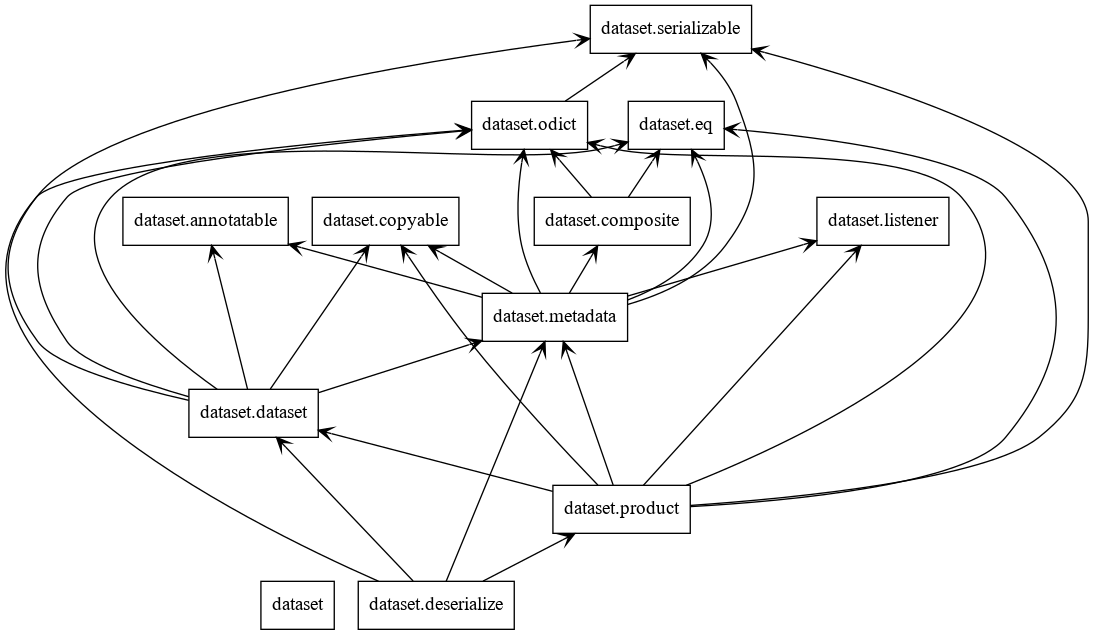
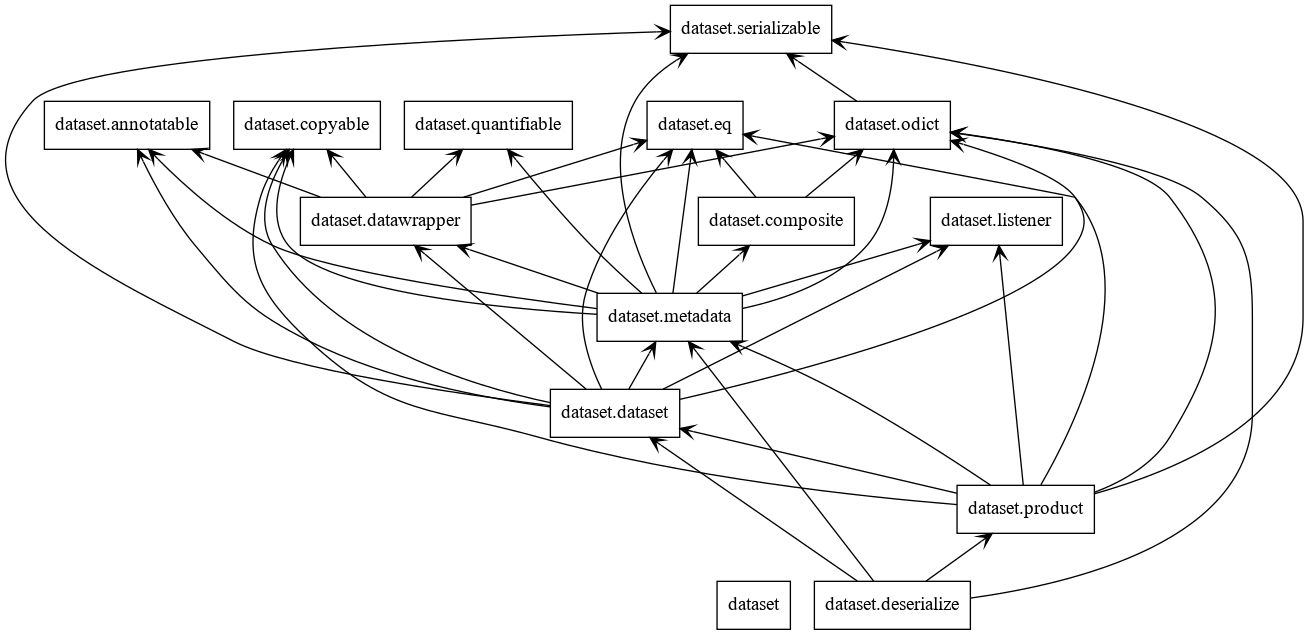
datawreapper refactoring

diff --git a/dataset/metadata.py b/dataset/metadata.py
@@ -6,10 +6,12 @@ logger = logging.getLogger(__name__)
 from dataset.annotatable import Annotatable
 from dataset.copyable import Copyable
 from dataset.eq import DeepEqual
+from dataset.quantifiable import Quantifiable
 from dataset.listener import EventSender, DatasetBaseListener, ParameterListener, DatasetListener, DatasetEvent, EventType
 from dataset.composite import Composite
 from dataset.odict import ODict
 from dataset.serializable import Serializable
+from dataset.datawrapper import DataWrapperMapper
 
 
 class Parameter(Annotatable, Copyable, DeepEqual, EventSender, Serializable):
@@ -91,30 +93,8 @@ class Parameter(Annotatable, Copyable, DeepEqual, EventSender, Serializable):
                      version=self.version)
 
 
-class Quantifiable():
-    """ A Quantifiable object is a numeric object that has a unit.
-    $ x.unit = ELECTRON_VOLTS
-    $ print x.unit
-    eV [1.60218E-19 J]"""
-
-    def __init__(self, unit=None, **kwds):
-        """
-
-        """
-        self.unit = unit
-        super().__init__(**kwds)
-
-    def getUnit(self):
-        """ Returns the unit related to this object."""
-        return self.unit
-
-    def setUnit(self, unit):
-        """ Sets the unit of this object. """
-        self.unit = unit
-
-
 class NumericParameter(Parameter, Quantifiable):
-    """
+    """ has a number as the value and a unit.
     """
 
     def __init__(self, **kwds):
@@ -248,53 +228,6 @@ class Attributable(MetaDataHolder):
         replaced
         """
         self._meta = newMetadata
-
-
-class DataWrapper(Annotatable, Quantifiable, Copyable, DeepEqual):
-    """ A DataWrapper is a composite of data, unit and description.
-    mh: note that all data are in the same unit. There is no metadata.
-    Implemented from AbstractDataWrapper.
-    """
-
-    def __init__(self, **kwds):
-        super().__init__(**kwds)
-        self._data = ODict()
-
-    @property
-    def data(self):
-        return self.getData()
-
-    @data.setter
-    def data(self, newData):
-        self.setData(newData)
-
-    def setData(self, data):
-        """ Replaces the current DataData with specified argument. 
-        mh: subclasses can override this to add listener whenevery data is
-        replaced
-        """
-        self._data = data
-
-    def getData(self):
-        """ Returns the data in this """
-        return self._data
-
-    def hasData(self):
-        """ Returns whether this data wrapper has data. """
-        return len(self.getData()) > 0
-
-    def __repr__(self):
-        return self.__class__.__name__ + \
-            '{ description = "%s", data = "%s", unit = "%s"}' % \
-            (str(self.description), str(self.getData()), str(self.unit))
-
-
-class DataWrapperMapper():
-    """ Object holding a map of data wrappers. """
-
-    def getDataWrappers(self):
-        """ Gives the data wrappers, mapped by name. """
-        return self._sets
 
 
 class AbstractComposite(Attributable, Annotatable, Composite, DataWrapperMapper, DatasetListener):

diff --git a/dataset/datawrapper.py b/dataset/datawrapper.py
@@ -1,0 +1,57 @@
+import logging
+# create logger
+logger = logging.getLogger(__name__)
+#logger.debug('level %d' %  (logger.getEffectiveLevel()))
+
+from dataset.annotatable import Annotatable
+from dataset.copyable import Copyable
+from dataset.eq import DeepEqual
+from dataset.quantifiable import Quantifiable
+from dataset.odict import ODict
+
+
+class DataWrapper(Annotatable, Quantifiable, Copyable, DeepEqual):
+    """ A DataWrapper is a composite of data, unit and description.
+    mh: note that all data are in the same unit. There is no metadata.
+    Implemented from AbstractDataWrapper.
+    """
+
+    def __init__(self, **kwds):
+        super().__init__(**kwds)
+        self._data = ODict()
+
+    @property
+    def data(self):
+        return self.getData()
+
+    @data.setter
+    def data(self, newData):
+        self.setData(newData)
+
+    def setData(self, data):
+        """ Replaces the current DataData with specified argument. 
+        mh: subclasses can override this to add listener whenevery data is
+        replaced
+        """
+        self._data = data
+
+    def getData(self):
+        """ Returns the data in this """
+        return self._data
+
+    def hasData(self):
+        """ Returns whether this data wrapper has data. """
+        return len(self.getData()) > 0
+
+    def __repr__(self):
+        return self.__class__.__name__ + \
+            '{ description = "%s", data = "%s", unit = "%s"}' % \
+            (str(self.description), str(self.getData()), str(self.unit))
+
+
+class DataWrapperMapper():
+    """ Object holding a map of data wrappers. """
+
+    def getDataWrappers(self):
+        """ Gives the data wrappers, mapped by name. """
+        return self._sets

diff --git a/tests/test_all.py b/tests/test_all.py
@@ -17,9 +17,11 @@ from dataset.copyable import Copyable
 from dataset.odict import ODict
 from dataset.serializable import serializeClassID, SerializableEncoder
 from dataset.eq import deepcmp
+from dataset.quantifiable import Quantifiable
 from dataset.listener import EventSender, DatasetBaseListener
 from dataset.composite import Composite
-from dataset.metadata import Parameter, Quantifiable, NumericParameter, MetaDataHolder, MetaData, Attributable, DataWrapper, DataWrapperMapper, AbstractComposite
+from dataset.metadata import Parameter, NumericParameter, MetaDataHolder, MetaData, Attributable, AbstractComposite
+from dataset.datawrapper import DataWrapper, DataWrapperMapper
 from dataset.dataset import ArrayDataset, TableDataset, CompositeDataset, Column
 from dataset.product import FineTime1, History, Product
 from dataset.deserialize import deserializeClassID

diff --git a/dataset/quantifiable.py b/dataset/quantifiable.py
@@ -1,0 +1,26 @@
+import logging
+# create logger
+logger = logging.getLogger(__name__)
+#logger.debug('level %d' %  (logger.getEffectiveLevel()))
+
+
+class Quantifiable():
+    """ A Quantifiable object is a numeric object that has a unit.
+    $ x.unit = ELECTRON_VOLTS
+    $ print x.unit
+    eV [1.60218E-19 J]"""
+
+    def __init__(self, unit=None, **kwds):
+        """
+
+        """
+        self.unit = unit
+        super().__init__(**kwds)
+
+    def getUnit(self):
+        """ Returns the unit related to this object."""
+        return self.unit
+
+    def setUnit(self, unit):
+        """ Sets the unit of this object. """
+        self.unit = unit

diff --git a/dataset/dataset.py b/dataset/dataset.py
@@ -8,8 +8,9 @@ logger = logging.getLogger(__name__)
 from dataset.annotatable import Annotatable
 from dataset.copyable import Copyable
 from dataset.eq import DeepEqual
+from dataset.datawrapper import DataWrapper
 # from dataset.composite import
-from dataset.metadata import Attributable, AbstractComposite, DataWrapper
+from dataset.metadata import Attributable, AbstractComposite
 from dataset.odict import ODict
 from dataset.serializable import Serializable
 from dataset.listener import ColumnListener
